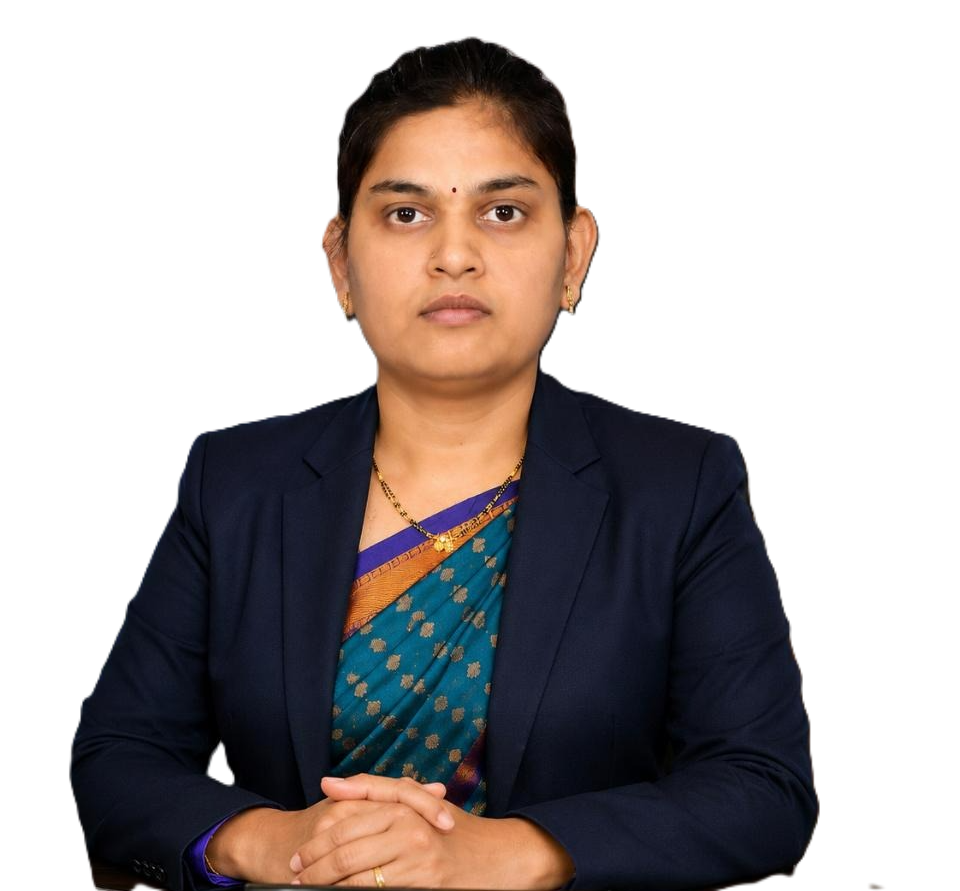
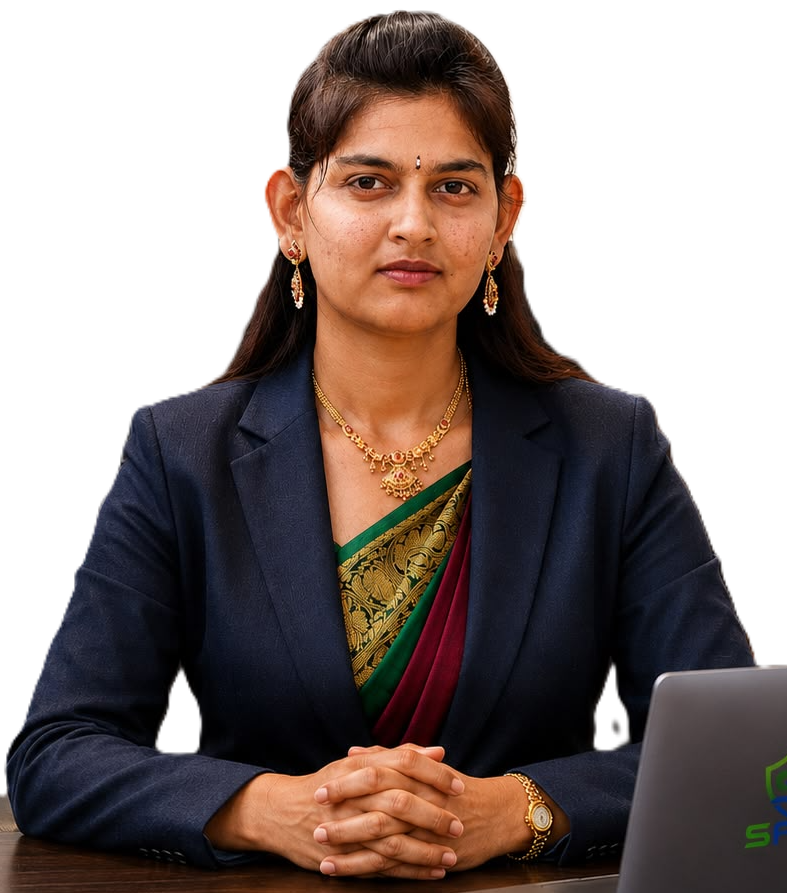
bg od about us

diff --git a/src/pages/aboutus.jsx b/src/pages/aboutus.jsx
@@ -181,7 +181,7 @@ export default function AboutUs() {
             width: 100%;
             min-height: 520px;
             background: radial-gradient(rgba(255, 255, 255, 0.06) 1px, transparent 1px), 
-                        linear-gradient(150deg, #020c1b 0%, #0a1f44 40%, #004b23 80%, #031a07 100%);
+                        linear-gradient(150deg, #020c1b 0%, #0a1f44 100%);
             background-size: 32px 32px, 100% 100%;
             display: flex;
             align-items: center;
@@ -747,8 +747,7 @@ export default function AboutUs() {
               }
               .leader-card:hover {
                 transform: translateY(-5px);
-                // border-width: 0.5px !important;
-                // border-color: #2563eb !important;
+                border-width: 1px !important;
                 box-shadow: 0 20px 40px rgba(37, 99, 235, 0.2), 0 4px 15px rgba(0, 0, 0, 0.06) !important;
               }
               .leader-card-image-wrapper {

diff --git a/src/components/Footer.jsx b/src/components/Footer.jsx
@@ -200,7 +200,7 @@ export default function Footer() {
           color: #e2e8f0;
           width: 100%;
           overflow: hidden;
-          background: linear-gradient(150deg, #020c1b 0%, #0a1f44 40%, #004b23 80%, #031a07 100%);
+          background: linear-gradient(150deg, #020c1b 0%, #0a1f44 100%);
         }
 
         /* ── Background image layer ── */